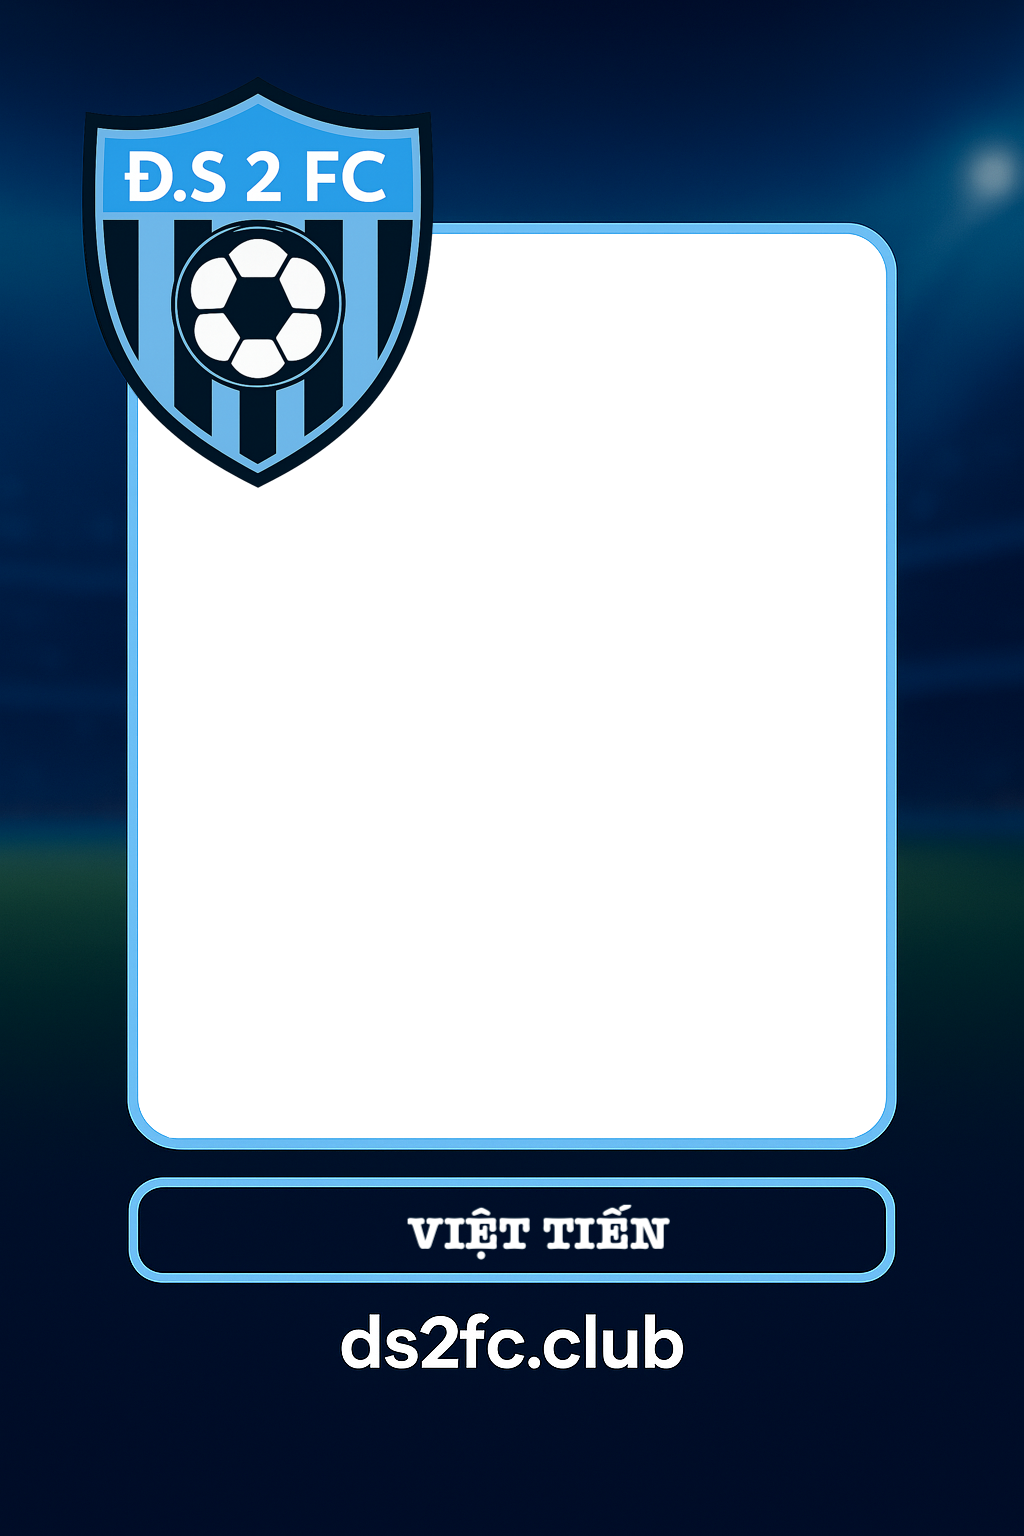
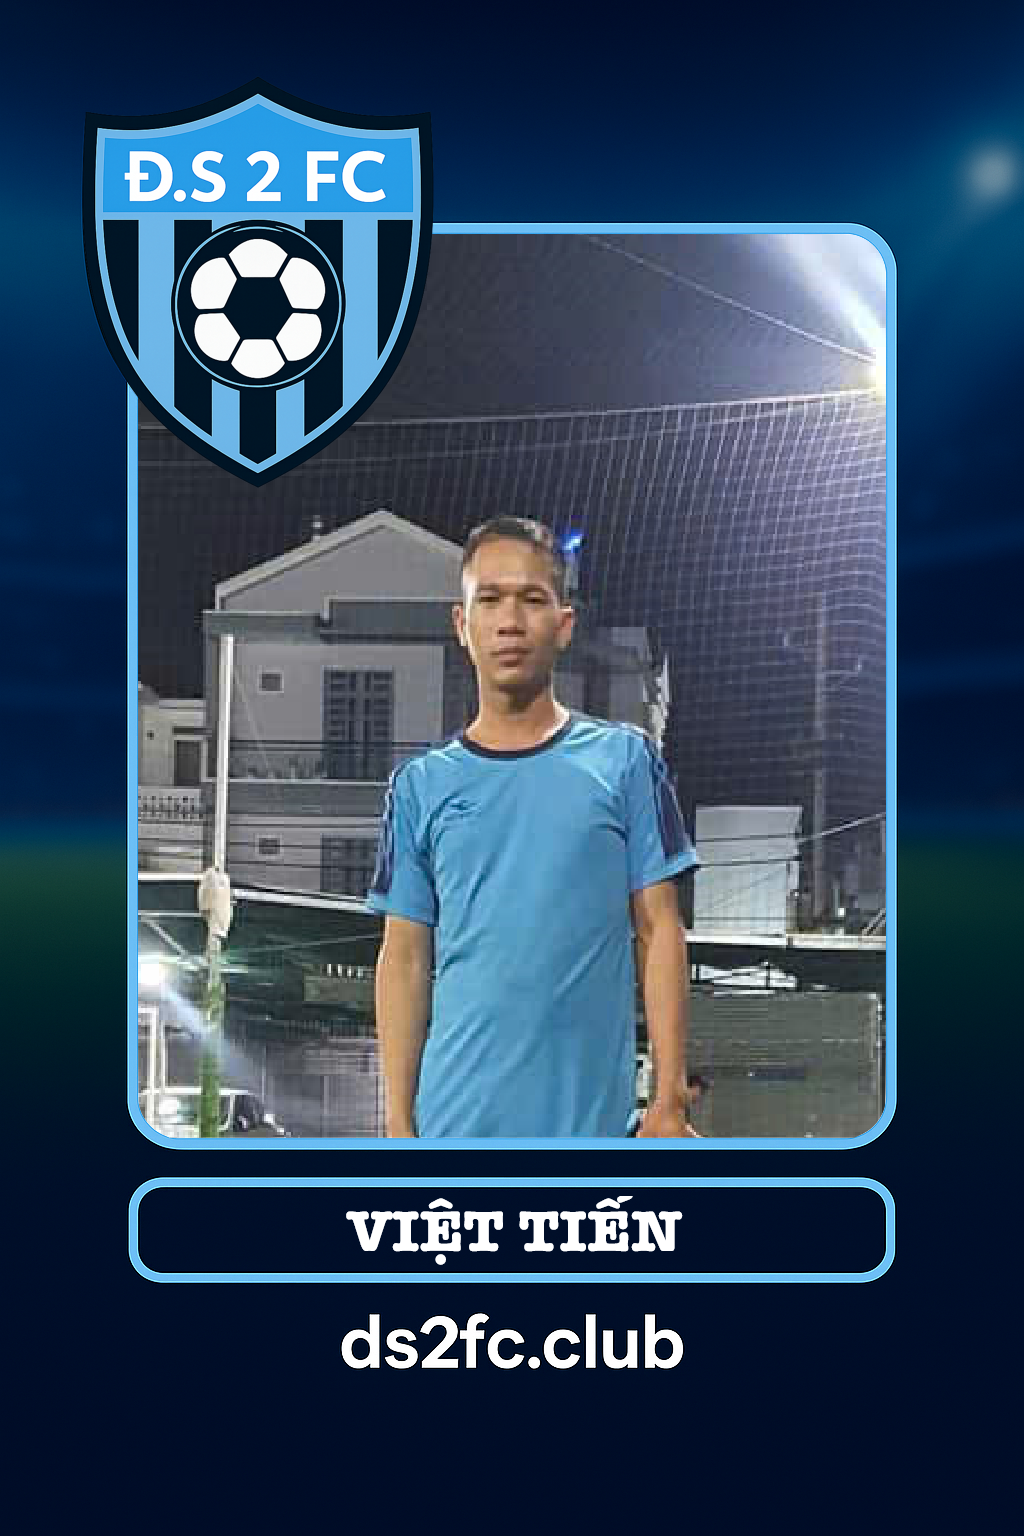
Deploy aefc on Thu Jul 24 12:37:31 SEAST 2025

diff --git a/flutter_service_worker.js b/flutter_service_worker.js
@@ -66,7 +66,7 @@ const RESOURCES = {"assets/AssetManifest.bin": "ec9d71df0f550d30891159817688bbe6
 "assets/assets/images/players/tunglam.png": "65295aac9eef670b1f6e631eb80fa807",
 "assets/assets/images/players/vhieu.png": "71bc3fa94599bd7660fa2ce107aef307",
 "assets/assets/images/players/viethocons.png": "6b6b01d6a757feb7f96d890c1ae5ea4c",
-"assets/assets/images/players/viettien.png": "9efcdeb872d96f74fd5d111750102a48",
+"assets/assets/images/players/viettien.png": "af10e9611934958c99b2055a3e22ebc9",
 "assets/assets/images/recent_scorers/haohoang.jpg": "47e58a734fb54fa91d48928efb4b24f6",
 "assets/assets/images/recent_scorers/quanglam.jpg": "1a7f230a4ac7104b0df9c9ec1964ed33",
 "assets/assets/images/recent_scorers/thoale.jpg": "4f45184a0579e465061278432c167381",
@@ -90,7 +90,7 @@ const RESOURCES = {"assets/AssetManifest.bin": "ec9d71df0f550d30891159817688bbe6
 "canvaskit/skwasm.wasm": "39dd80367a4e71582d234948adc521c0",
 "favicon.png": "4e1c00567e5fd8927d26abb9fc4010e8",
 "flutter.js": "83d881c1dbb6d6bcd6b42e274605b69c",
-"flutter_bootstrap.js": "004ec84861dbeed0a6a510c998717c18",
+"flutter_bootstrap.js": "3ef16a01399c0c9e82fc99810b249d65",
 "icons/Icon-192.png": "b858eec0d5dfa6aa3181e070f0afdded",
 "icons/Icon-512.png": "90395b7ead299b7700b1ed3760e1d29e",
 "icons/Icon-maskable-192.png": "b858eec0d5dfa6aa3181e070f0afdded",

diff --git a/flutter_bootstrap.js b/flutter_bootstrap.js
@@ -39,6 +39,6 @@ _flutter.buildConfig = {"engineRevision":"8cd19e509d6bece8ccd74aef027c4ca9473630
 
 _flutter.loader.load({
   serviceWorkerSettings: {
-    serviceWorkerVersion: "3698897006"
+    serviceWorkerVersion: "126869851"
   }
 });
